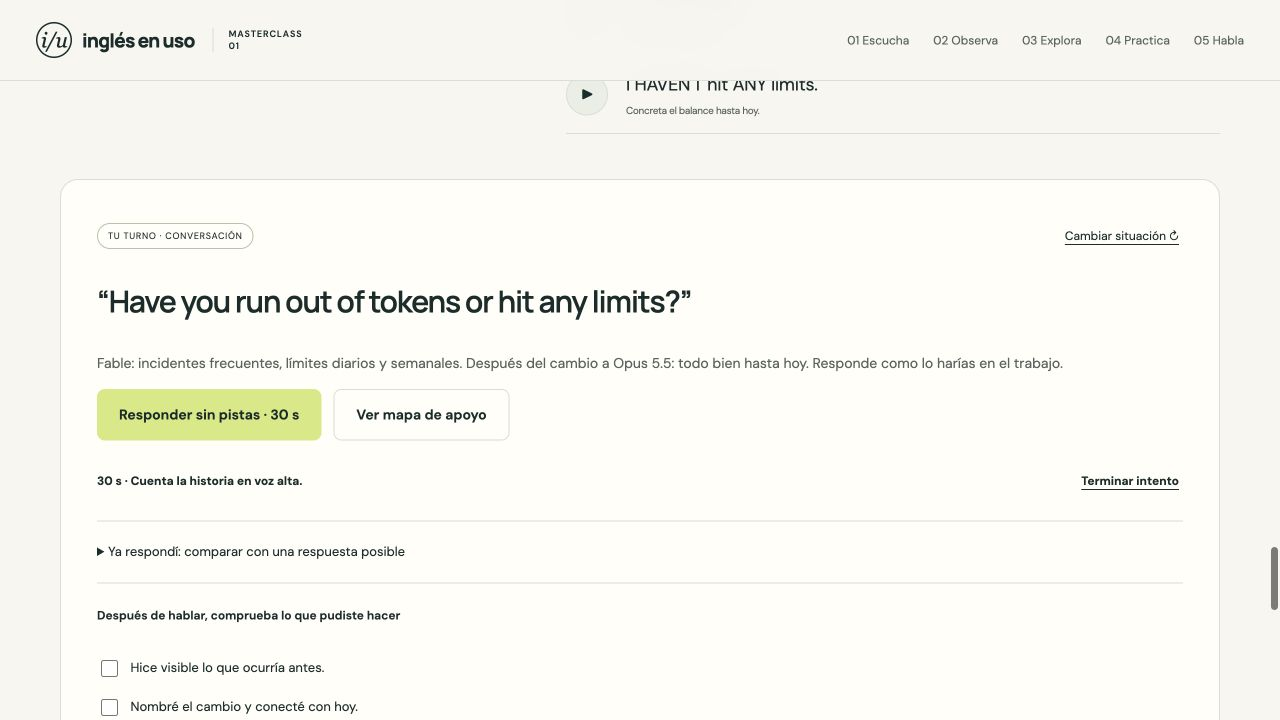
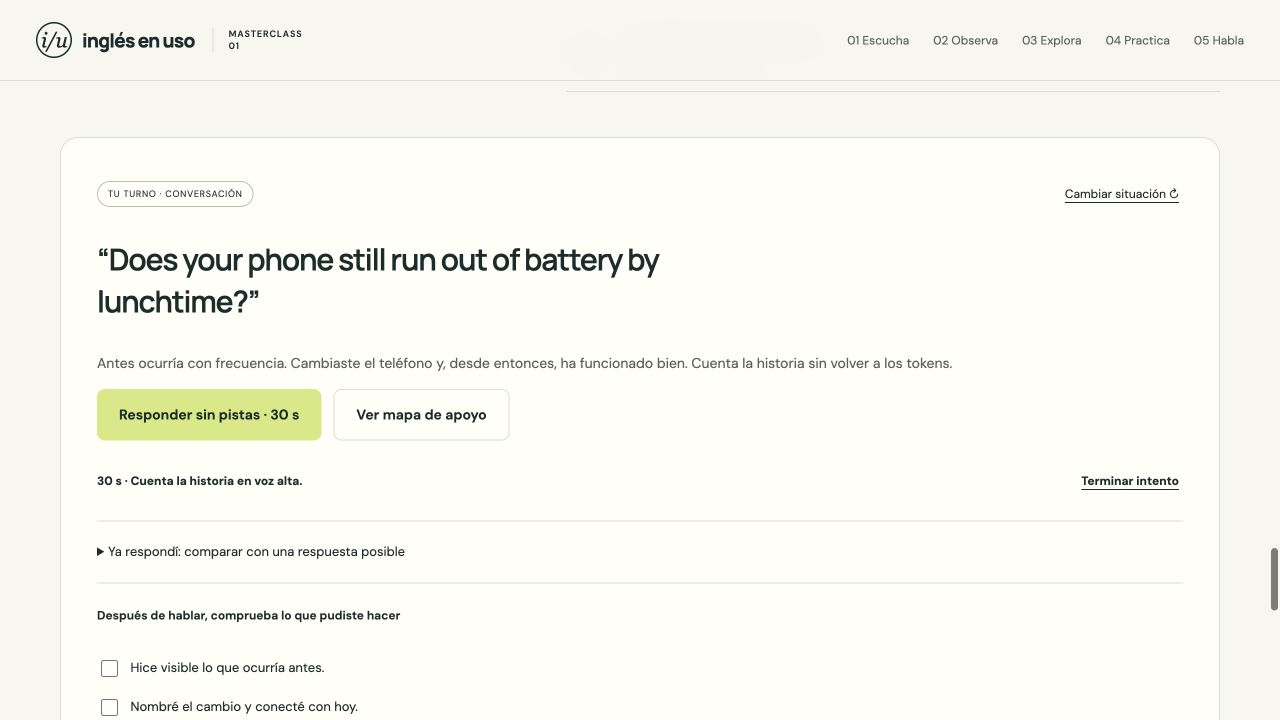
Document Pages configuration and align reviewed screenshots

diff --git a/docs/verificacion.md b/docs/verificacion.md
@@ -30,4 +30,4 @@ Capturas de ejecución real guardadas en una carpeta de proyecto y fecha del Esc
 - La interfaz ofrece audio y autoevaluación oral; no verifica la calidad de la respuesta hablada.
 - No hay sincronización entre dispositivos o notificaciones de repaso.
 
-El resultado de publicación se registra después de comprobar GitHub Pages.
+Publicación configurada en GitHub Pages, desde la raíz de `main`, con HTTPS forzado. Dirección: https://medinagithub.github.io/masterclass-ingles-en-uso/. La entrega incluye la comprobación del sitio publicado.
